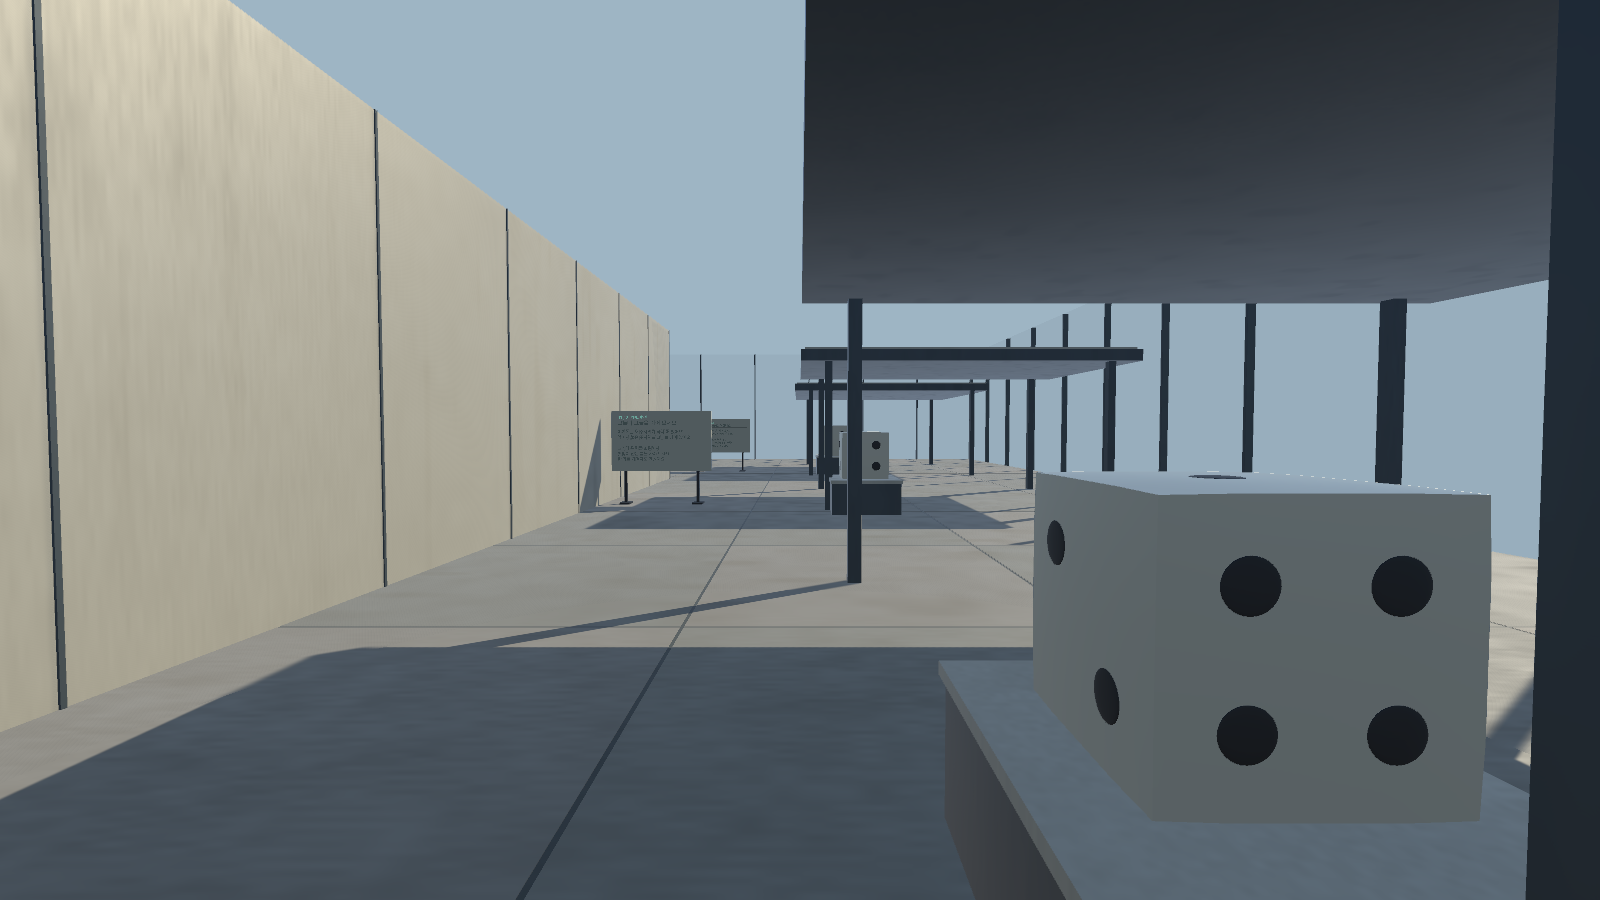
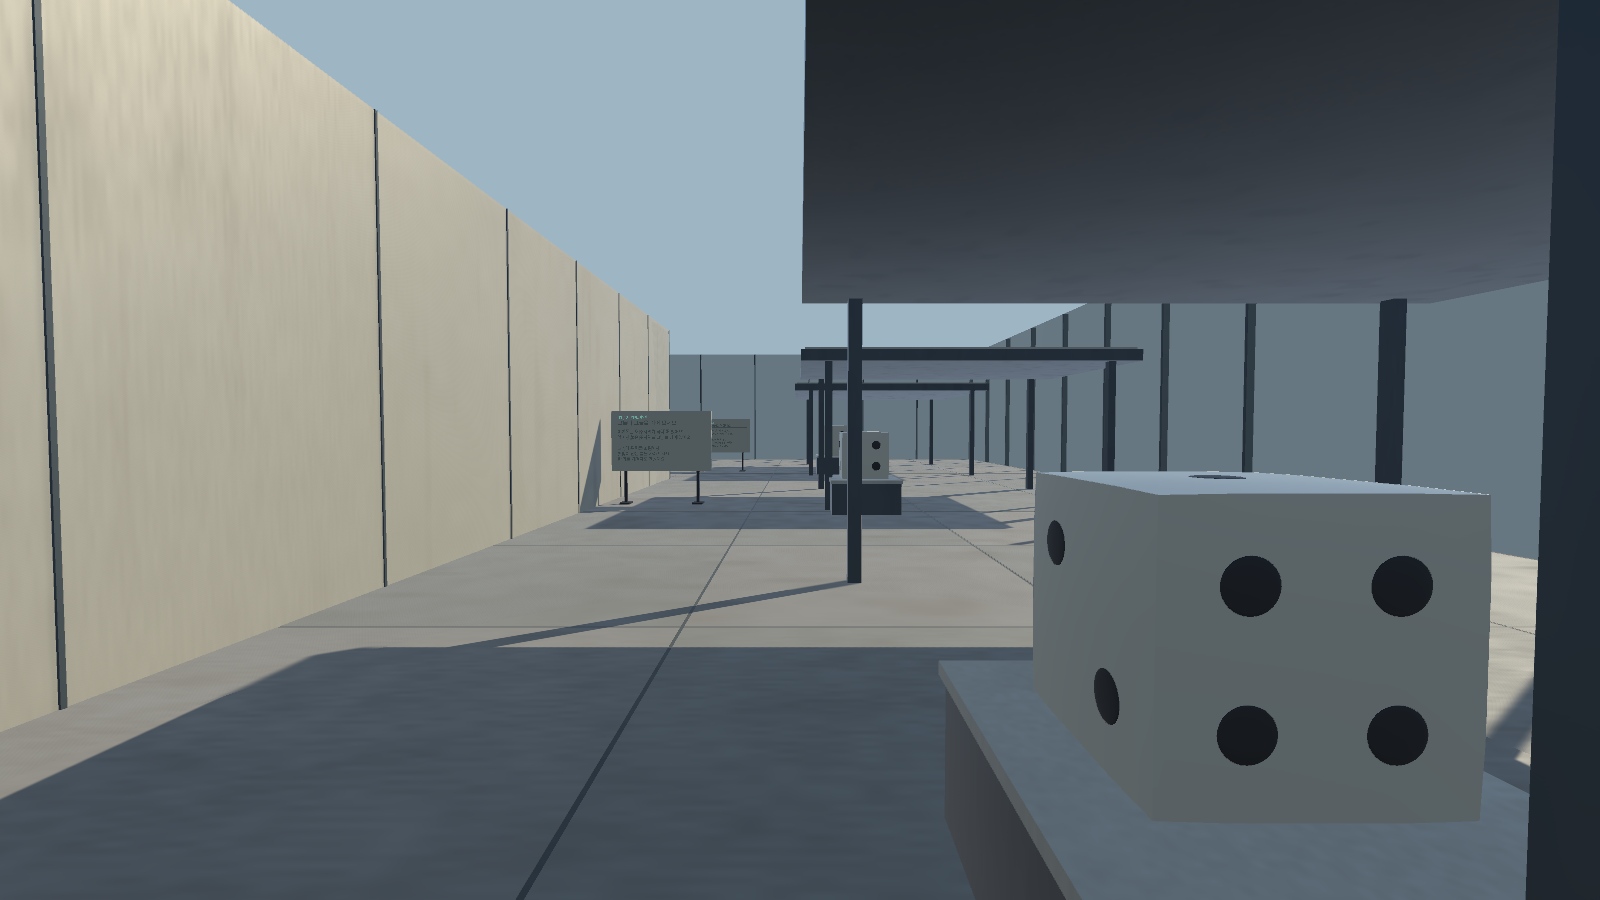
fix(tutorial): make sunlight room wall panels visible

Changed region(s): [[0.4062, 0.3111, 0.9688, 0.6222]]

diff --git a/projects/all-stages/Assets/Parallax/Tutorial/Scripts/TutorialGame.Sunlight.cs b/projects/all-stages/Assets/Parallax/Tutorial/Scripts/TutorialGame.Sunlight.cs
@@ -39,8 +39,10 @@ namespace ShadeLink.Tutorial
             SunlightFloor(new Bounds(new Vector3(31, 0, 22), new Vector3(14, 0, 16)));
             SunlightFloor(new Bounds(new Vector3(27, 0, 31.5f), new Vector3(3, 0, 3)));
 
-            var glass = new Material(surfaceShader) { color = new Color(.59f, .72f, .75f, .10f) };
-            glass.SetFloat("_Mode", 3);
+            var glass = new Material(surfaceShader)
+                { name = "Courtyard frosted glass", color = new Color(.58f, .64f, .65f, .68f) };
+            glass.SetFloat("_Mode", 2);
+            glass.SetFloat("_Glossiness", .18f);
             glass.SetInt("_SrcBlend", (int)BlendMode.SrcAlpha);
             glass.SetInt("_DstBlend", (int)BlendMode.OneMinusSrcAlpha);
             glass.SetInt("_ZWrite", 0);

diff --git a/docs/tutorial-stage3-review/README.md b/docs/tutorial-stage3-review/README.md
@@ -11,7 +11,7 @@
 - `R`은 마지막 쉼터로 복귀한다. `ESC`의 처음부터 다시 시작과 1·2·3스테이지 바로가기는 해당 연습 상태를 초기화한다.
 - 2스테이지 문을 자연스럽게 통과할 때는 보던 방향을 유지한다. 바로가기를 사용할 때는 각 스테이지의 시작 시점으로 맞춘다.
 
-태양 방향은 고정되어 있다. 놓인 주사위와 지붕의 실제 충돌 형상을 향해 햇빛 방향으로 검사하고, 들고 있는 물체는 차광 판정에서 제외한다. 햇빛 쪽 벽은 유리와 가느다란 프레임으로 구성해 벽 뒤의 긴 고정 그늘만 따라 우회하는 것을 줄였다.
+태양 방향은 고정되어 있다. 놓인 주사위와 지붕의 실제 충돌 형상을 향해 햇빛 방향으로 검사하고, 들고 있는 물체는 차광 판정에서 제외한다. 햇빛 쪽 벽은 빛을 통과시키는 반투명 패널과 금속 프레임으로 구성해 벽 뒤의 긴 고정 그늘만 따라 우회하는 것을 줄였다.
 
 ## 함께 포함된 튜토리얼 변경
 
@@ -29,6 +29,12 @@ Unity Play Mode에서 실제 Tutorial 카메라로 저장한 1600×900 원본이
 ### 입구와 쉼터
 
 ![3스테이지 입구와 구간별 주사위](01-stage3-entry.png)
+
+초기 초안의 유리벽은 알파 0.10으로 하늘색 배경에 묻혀 벽이 빠진 것처럼 보였다. 현재는 알파 0.68의 무광 반투명 패널로 조정해 벽면이 분명히 읽힌다. 차광 판정과 배치는 유지한다.
+
+| 벽 표시 수정 전 | 수정 후 |
+| --- | --- |
+| ![하늘처럼 비어 보이던 유리벽](wall-before.png) | ![면이 보이는 반투명 벽 패널](01-stage3-entry.png) |
 
 ### 원근으로 키운 주사위와 그늘길
 
